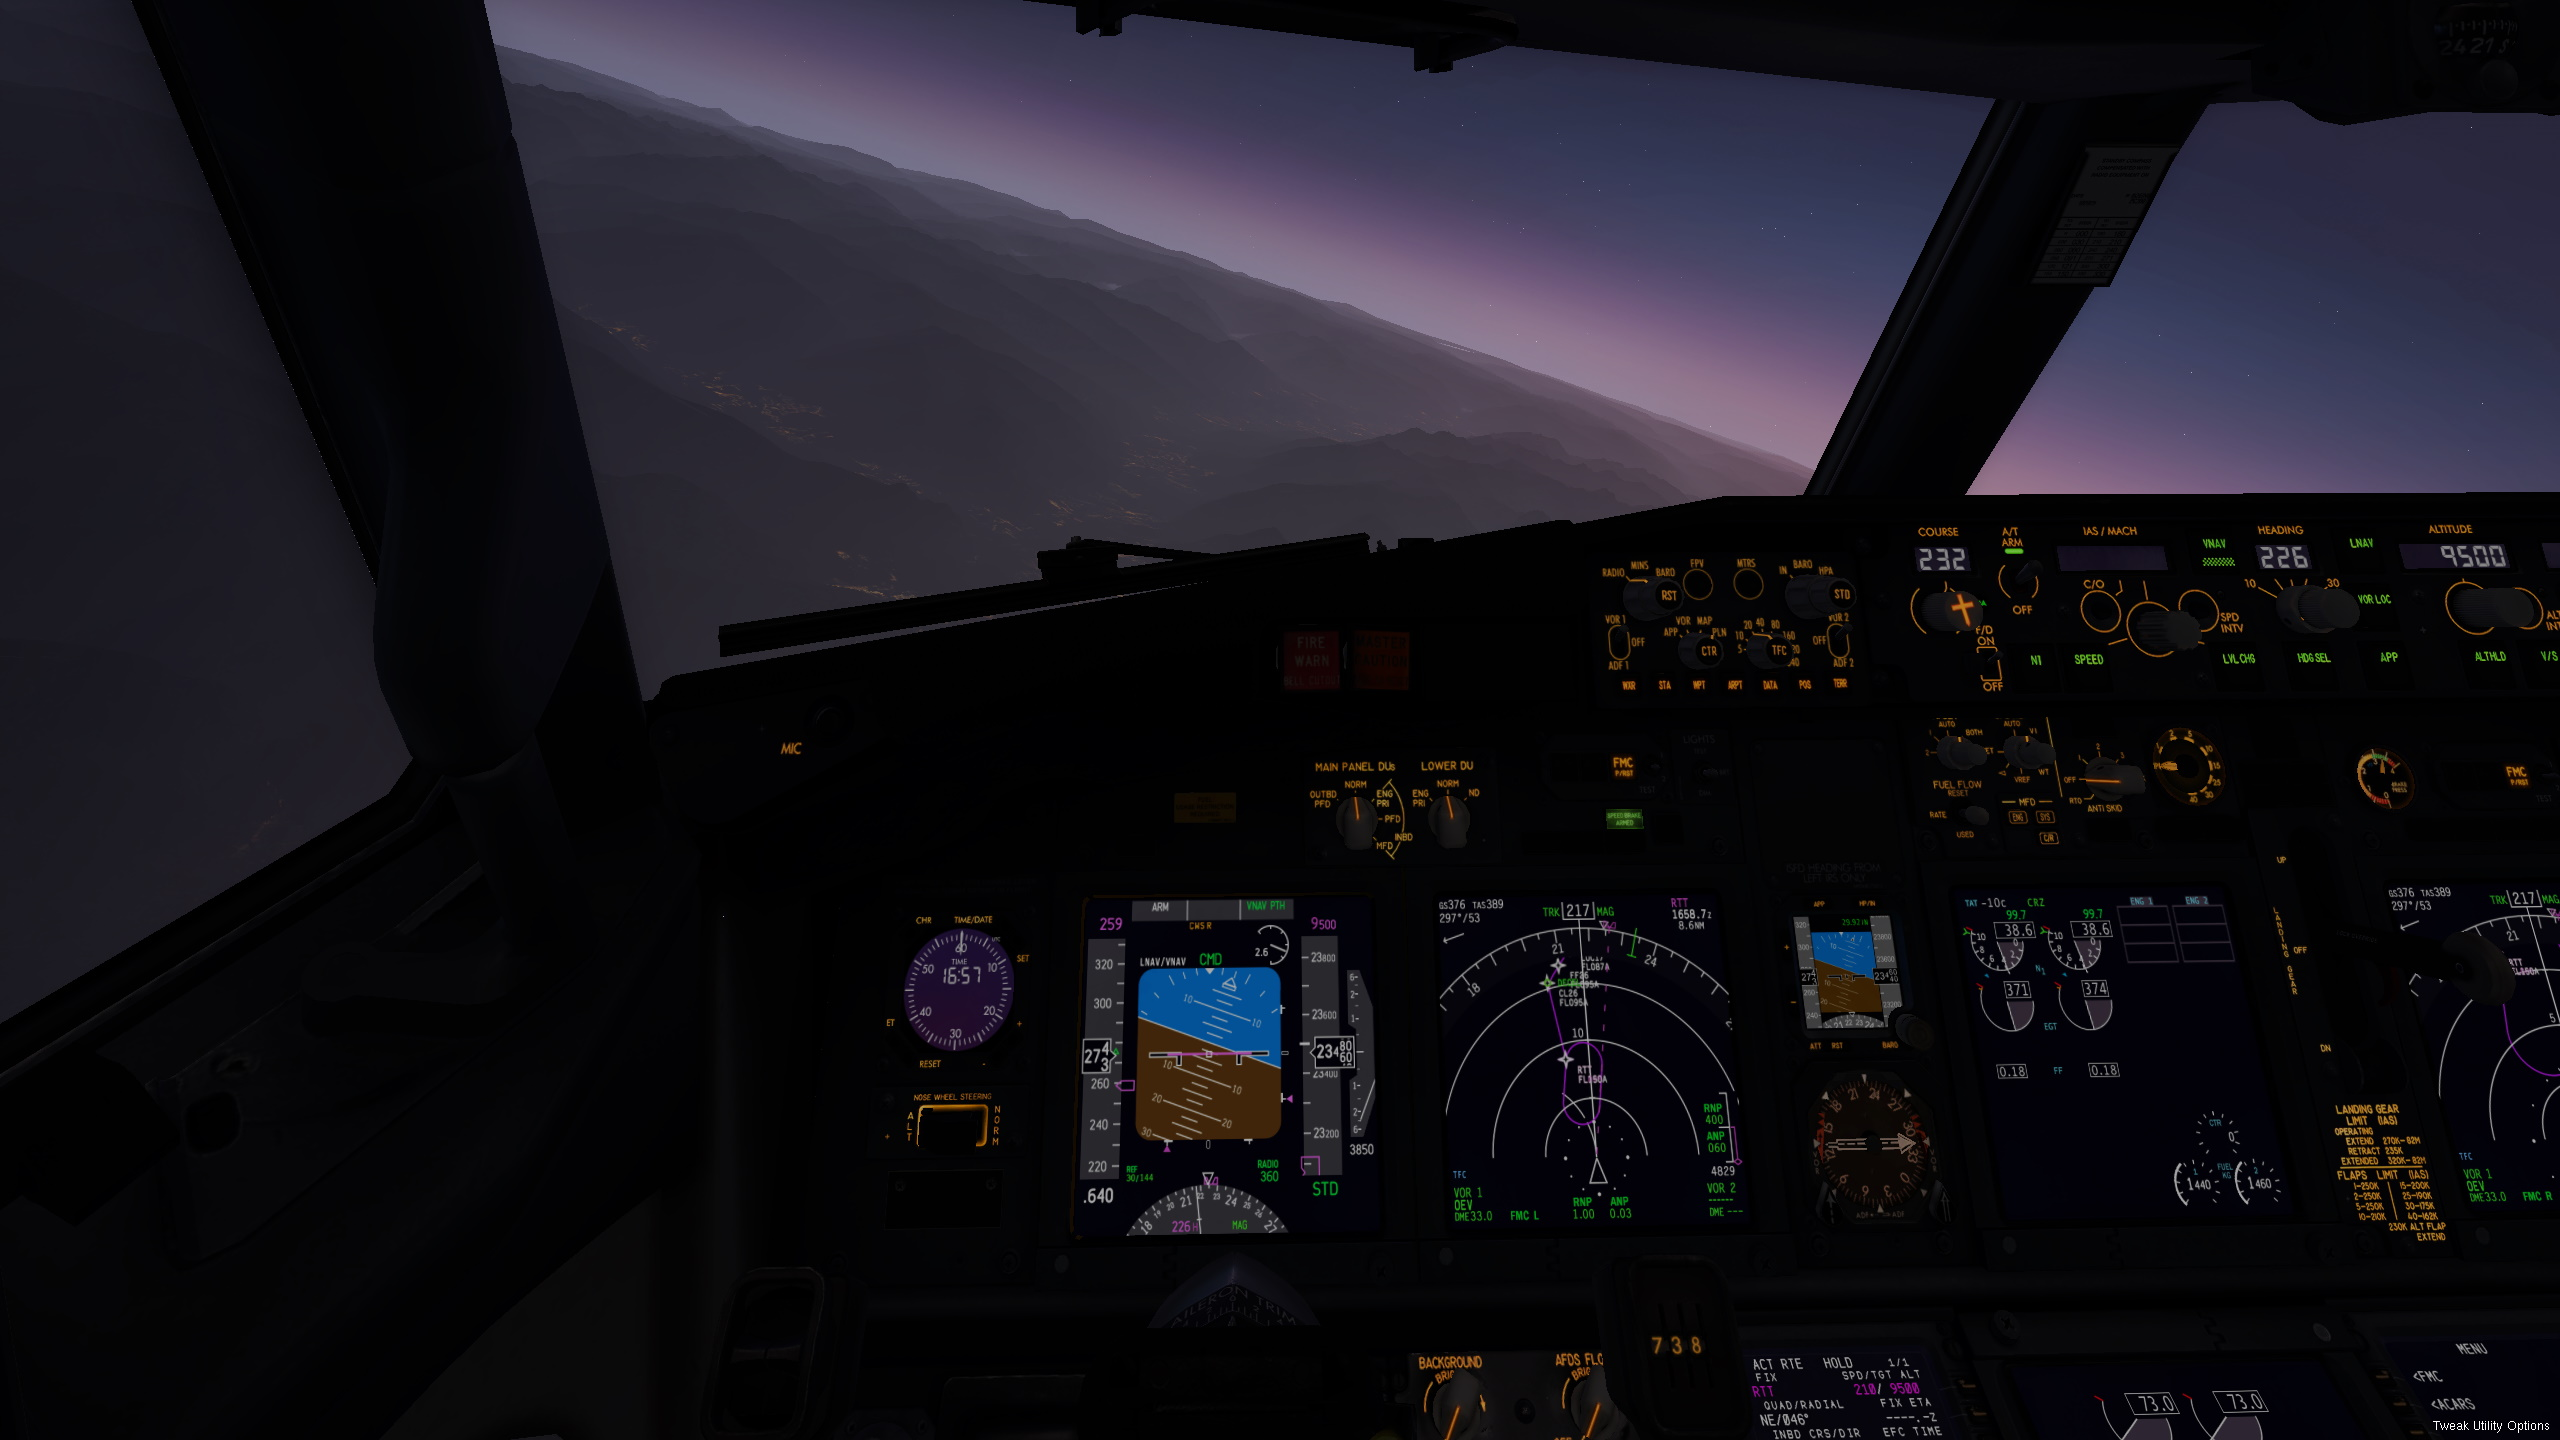
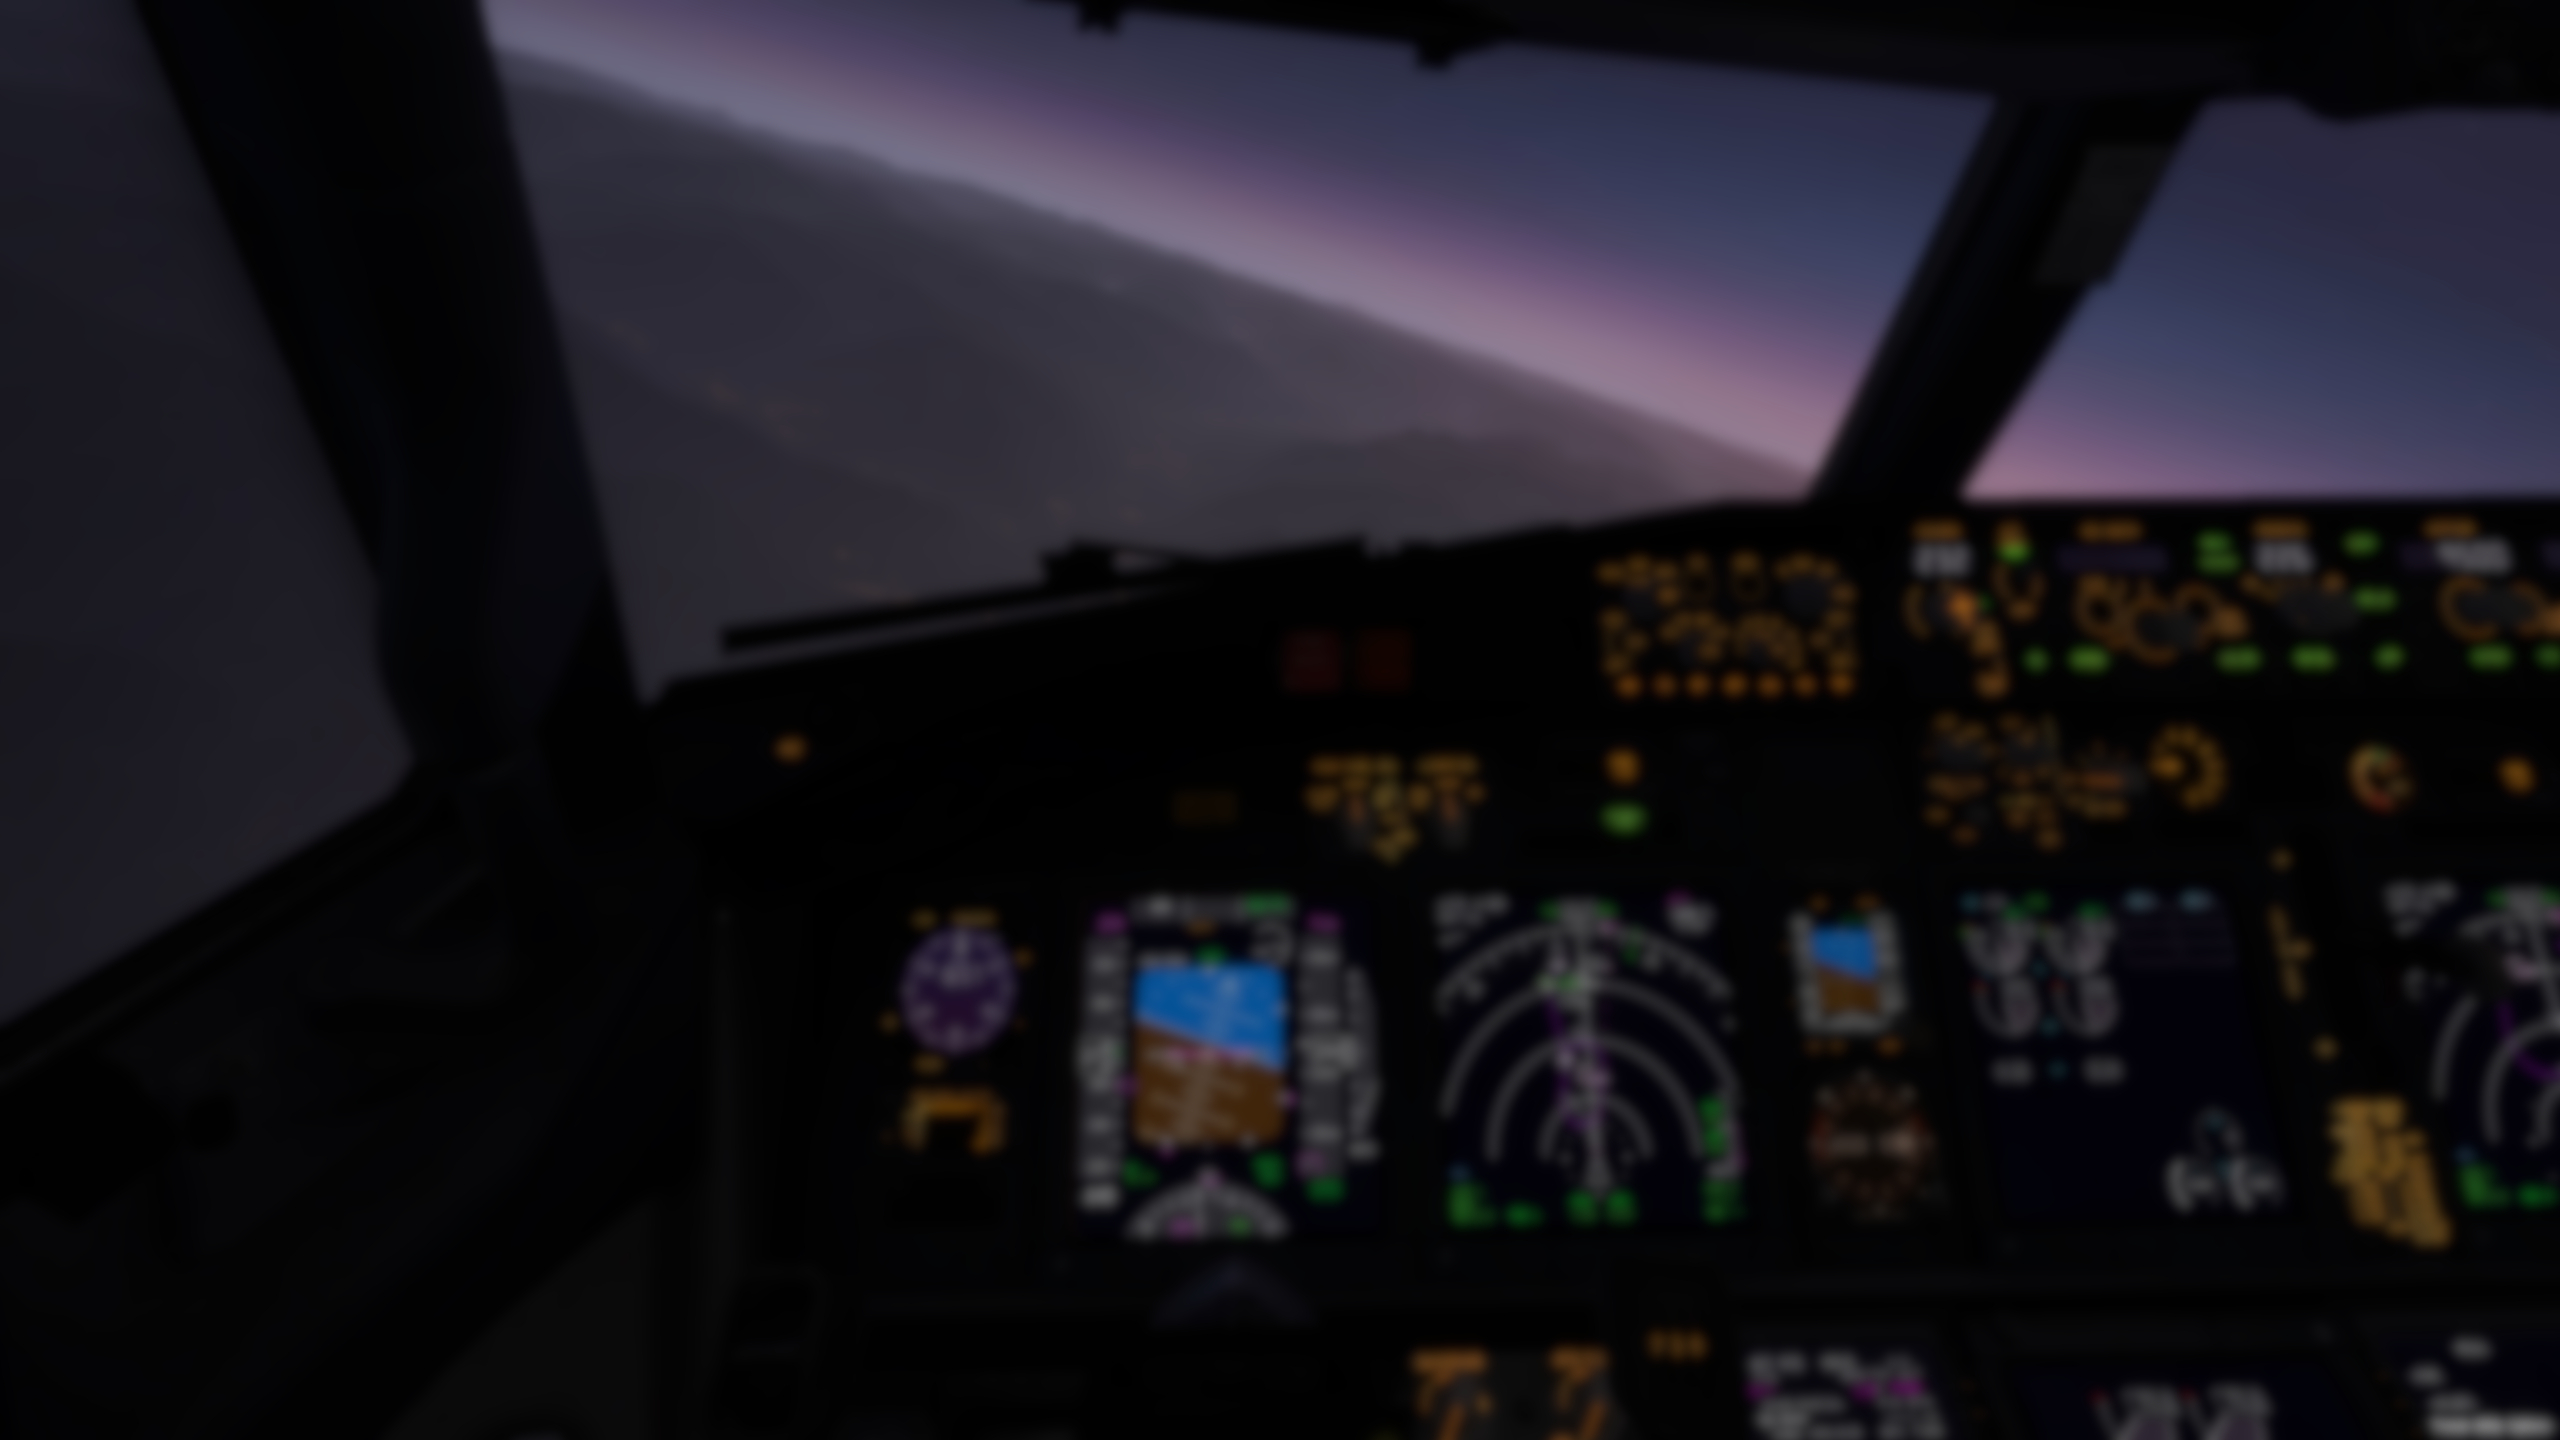
Removed css blur and burned it into the image

diff --git a/index.html b/index.html
@@ -5,9 +5,9 @@
 		 <link rel="stylesheet" href="css/styles.css">
 	</head>
 	<body>
-		<div class="header-bg blur">
-			<h1 class="noblur">MrSandyWilly</h1>
-			<span class="txt-rotate noblur" data-period="2000" data-rotate='[ "Streamer", "Programmer", "Flight Simmer" ]'></span>
+		<div class="header-bg">
+			<h1>MrSandyWilly</h1>
+			<span class="txt-rotate" data-period="2000" data-rotate='[ "Streamer", "Programmer", "Flight Simmer" ]'></span>
 			<script>
 			var TxtRotate = function(el, toRotate, period) {
 				this.toRotate = toRotate;

diff --git a/css/styles.css b/css/styles.css
@@ -8,15 +8,6 @@
 	background-size: cover;
 }
 
-.blur {
-	filter: blur(6px);
-	-webkit-filter: blur(6px);
-}
-
-.noblur {
-	filter: blur(0);
-}
-
 body, html {
   height: 100%;
   margin: 0;
